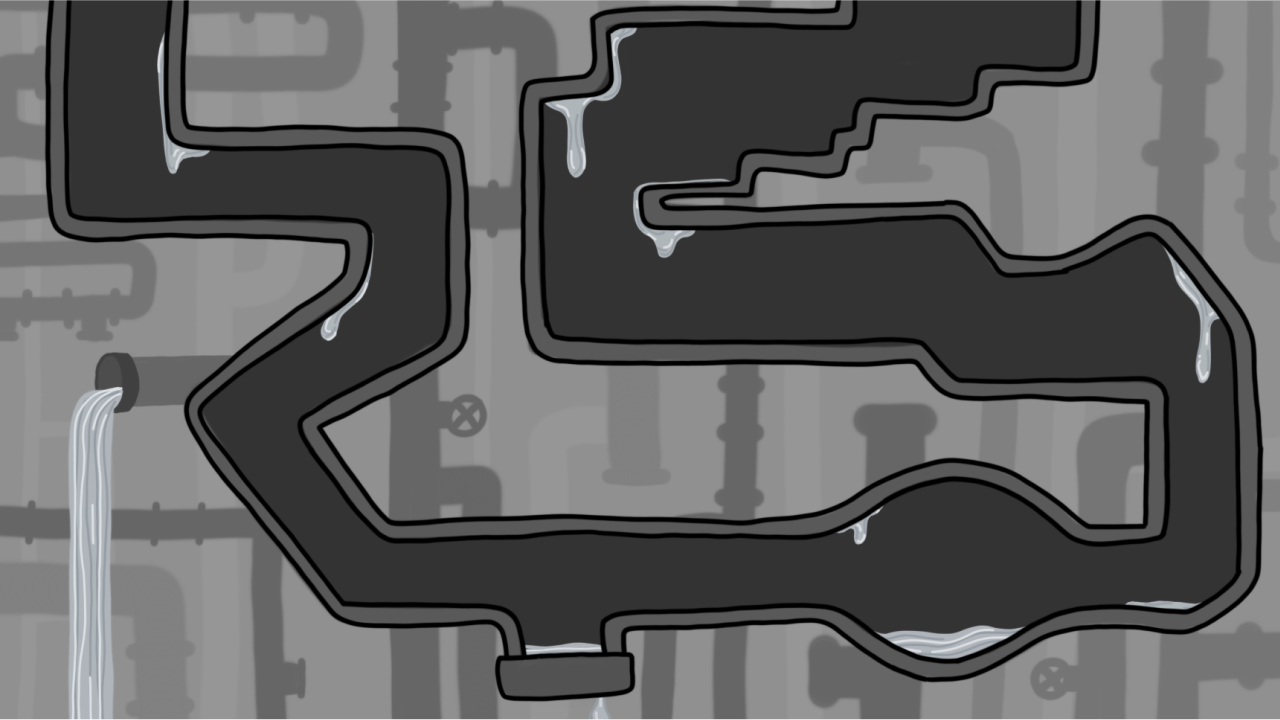
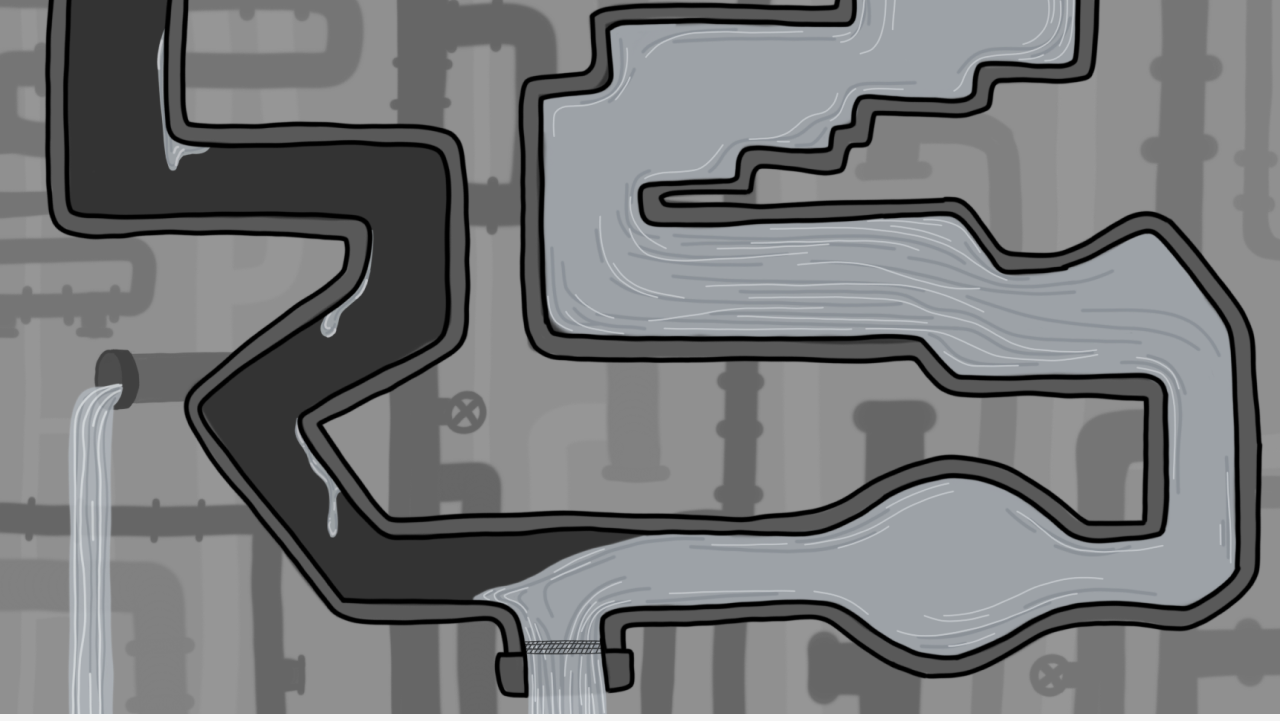
Abwasserkanaldd

diff --git a/Murmelbahn/Input/Map/Murmelbahn/sketch.js b/Murmelbahn/Input/Map/Murmelbahn/sketch.js
@@ -867,6 +867,34 @@ function scene7() {
 			{ isSensor: true, isStatic: true }
 		)
 	);
+	//Pusher
+	blocks.push(
+		new BlockCore(
+			world,
+			{
+				x: 1100,
+				y: 300,
+				w: 200,
+				h: 40,
+				force: { x: -0.056, y: 0.026 },
+			},
+			{ isSensor: true, isStatic: true }
+		)
+	);
+	blocks.push(
+		new BlockCore(
+			world,
+			{
+				x: 800,
+				y: 220,
+				w: 250,
+				h: 40,
+				force: { x: -0.056, y: 0.026 },
+			},
+			{ isSensor: true, isStatic: true }
+		)
+	);
+
 	//Path
 	blocks.push(
 		new BlockCore(
